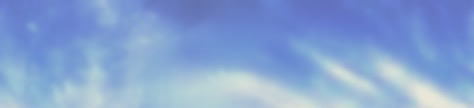
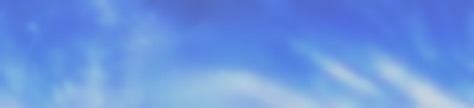
more theme updates

diff --git a/frontend/src/Themes.css b/frontend/src/Themes.css
@@ -6,6 +6,7 @@ colord: recognition create background
 colorn: navbar text
 colorl: admin dash bg
 colorm: admin dash accent
+colorr: ring around profile pic
 */
 
 
@@ -24,6 +25,7 @@ colorm: admin dash accent
     --colorl: rgb(255,178,89);
     --colorm: rgb(255,220,167);
     --colorn: var(--colora);
+    --colorr: var(--colorb);
     --navbartile: url("./pics/themes/under-lumber.png")
 }
 
@@ -37,50 +39,55 @@ colorm: admin dash accent
     --colorl:#707aff;
     --colorm:#5ba7ff;
     --colorn: var(--colora);
+    --colorr: var(--colorb);
     --navbartile: url("./pics/themes/ocean.png")
 }
 
 .cottage-theme{
-    --colora:#ccc8c8;
+    --colora:#c2c0b3;
     --colorb:#3d2600;
-    --colorc:#e0dac1;
+    --colorc:#dfd9c6;
     --colord:#c7c7c7;
     --colorl: #c0957d;
     --colorm: #bdbdbd;
     --colorn:#eee8d3;
+    --colorr: var(--colorb);
     --navbartile: url("./pics/themes/thatch.jpeg")
 }
 
 .volcano-theme{
-    --colora:#1f1c17;
-    --colorb:#dd3e29;
+    --colora:#252421;
+    --colorb:#db562d;
     --colorc:#111111;
     --colord:var(--colora);
     --colorl:var(--colora);
     --colorm:var(--colorc);
-    --colorn: rgb(194, 197, 0);
+    --colorn: rgb(154, 156, 2);
+    --colorr: var(--colorb);
     --navbartile: url("./pics/themes/volcano.jpg")
 }
 
 .jungle-theme{
     --colora:#533b24;
-    --colorb:rgb(107, 170, 123);
+    --colorb:rgb(212, 143, 122);
     --colorc:#1b2e18;
     --colord:#2d5f38;
     --colorl:#832a1b;
     --colorm:#805728;
-    --colorn: rgb(75, 250, 119);
+    --colorn: rgb(84, 190, 111);
+    --colorr: var(--colorb);
     --navbartile: url("./pics/themes/green.jpg")
 }
 
 .meadow-theme{
-    --colora:#b8e0af;
-    --colorb:rgb(92, 40, 99);
-    --colorc:#caf39c;
+    --colora:#7fbe71;
+    --colorb:rgb(12, 87, 31);
+    --colorc:#a7c584;
     --colord:#9ed6aa;
-    --colorm:#ffcb59;
-    --colorl:#ff8fc3;
+    --colorm:#f0c871;
+    --colorl:#e99bbf;
     --colorn: rgb(255, 252, 103);
+    --colorr: rgb(162, 88, 172);
     --navbartile: url("./pics/themes/grass.jpeg")
 }
 
@@ -92,28 +99,31 @@ colorm: admin dash accent
     --colorl:#317cd1;
     --colorm:#9cbedd;
     --colorn: rgb(215, 222, 230);
+    --colorr: var(--colorb);
     --navbartile: url("./pics/themes/sky.jpeg")
 }
 
 .pluto-theme{
-    --colorc:#c9b7c9;
+    --colorc:#cabdca;
     --colorb:rgb(85, 0, 40);
-    --colora:#d6d3c8;
+    --colora:#d1cfc6;
     --colord:#b2a5b6;
     --colorl:#ccd8da;
     --colorm:#b1beca;
     --colorn: rgb(112, 4, 55);
+    --colorr: var(--colorb);
     --navbartile: url("./pics/themes/pluto.jpeg")
 }
 
 .bruh-theme{
-    --colora:#3a3a3a;
-    --colorb:#ff0000;
-    --colorc:#00666d;
+    --colorc:#334881;
+    --colorb:#dfa279;
+    --colora:#4d391b;
     --colord:#5a5a5a;
-    --colorl: rgb(0, 0, 0);
-    --colorm: rgb(127, 0, 0);
+    --colorl: rgb(51, 51, 51);
+    --colorm: var(--colord);
     --colorn:#0ff;
+    --colorr: var(--colorb);
     --navbartile: url("./pics/themes/BRUH.png")
 }
 

diff --git a/frontend/src/App.css b/frontend/src/App.css
@@ -187,11 +187,11 @@ input:focus {
 }
 
 .ten-border {
-  border: 10px solid var(--colorb)
+  border: 10px solid var(--colorr)
 }
 
 .five-pic {
-  border: 5px solid var(--colorb)
+  border: 5px solid var(--colorr)
 }
 
 @font-face {
